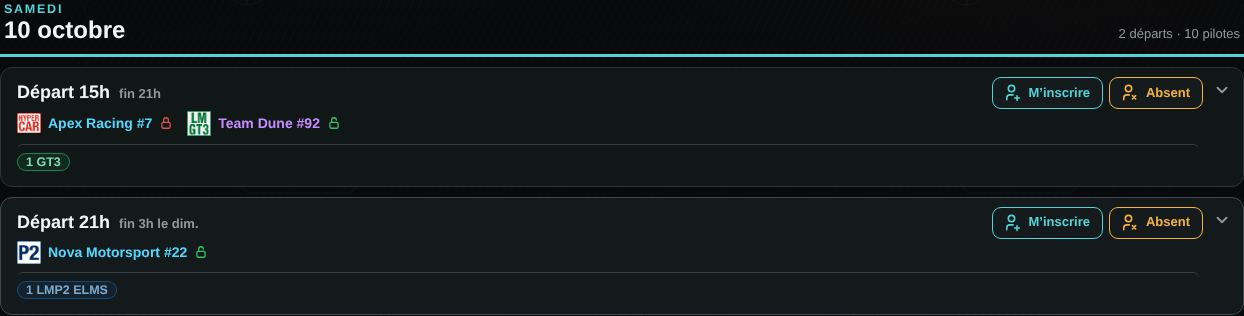
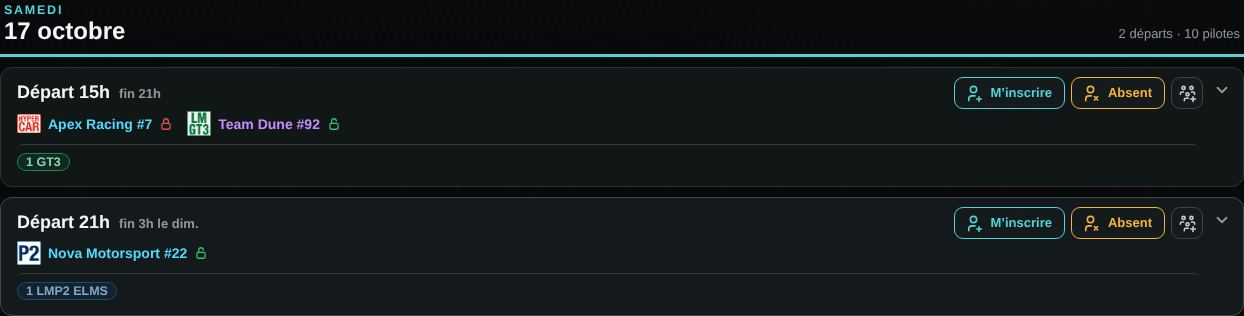
Aide à jour : accès, inscription, infos de course, récap par catégorie, modules
- Ce que tu peux faire : l'autorisation « Accès Endurance Manager » (sans elle, « Accès réservé »).
- Inscription : « Je la fais tout seul », coéquipiers souhaités et commentaire.
- Créer une endurance : infos facultatives (limites de piste, pneus, grille, partage du volant).
- Modules : récap par le bot (général ou une catégorie par course), vocal dès la création de l'équipage, EVENT TDZ, Mémo et Entraînement.
- Se repérer : onglets Mémo et Entraînement quand ils sont actifs.
- Rôles : texte d'explication raccourci.
- Captures de l'aide refaites ; données locales : @everyone reçoit l'accès.

Claude-Session: https://claude.ai/code/session_01NY3fv9bY7gYzXU8h8sdDb2

diff --git a/help.js b/help.js
@@ -23,7 +23,7 @@ function accountLabel() {
 
 function helpScreenshot(name, alt, caption = '') {
   return `<figure class="help-screenshot">
-    <img src="/images/help/${name}.jpg?v=3" alt="${alt}" loading="lazy" decoding="async">
+    <img src="/images/help/${name}.jpg?v=4" alt="${alt}" loading="lazy" decoding="async">
     ${caption ? `<figcaption>${caption}</figcaption>` : ''}
   </figure>`;
 }
@@ -37,6 +37,7 @@ function helpItem(index, title, body, open = false) {
 
 // The five permissions a Discord role can give (server/access.mjs), as set in Administration.
 const PERMISSIONS = () => [
+  ['access', L('Accès Endurance Manager', 'Endurance Manager access'), L('entrer sur le site de la communauté. Sans elle, tu vois « Accès réservé ».', 'enter the community’s site. Without it, you see “Restricted access”.')],
   ['endurance', L('Endurances', 'Endurance races'), L('s’inscrire aux endurances et rejoindre un équipage existant.', 'enter endurance races and join an existing crew.')],
   ['solo_open', L('Événements OPEN', 'OPEN events'), L('s’inscrire aux événements OPEN.', 'enter OPEN events.')],
   ['solo_safe', L('Événements SAFE', 'SAFE events'), L('s’inscrire aux événements SAFE (et OPEN).', 'enter SAFE (and OPEN) events.')],
@@ -51,6 +52,8 @@ const navigationSection = () => [L('Se repérer', 'Finding your way around'), `
     ${events() ? `<li>${L(`<strong>${eventsLabel()}</strong> : le calendrier des événements, toutes simus ;`, `<strong>${eventsLabel()}</strong>: the events calendar, every sim;`)}</li>` : ''}
     <li>${L('<strong>ENDURANCE</strong> : les endurances, avec le choix <strong>LMU</strong> / <strong>iRacing</strong> ;', '<strong>ENDURANCE</strong>: endurance races, with the <strong>LMU</strong> / <strong>iRacing</strong> switch;')}</li>
     <li>${L('<strong>Mes inscriptions</strong> : tout ce où tu es inscrit ;', '<strong>My entries</strong>: everything you entered;')}</li>
+    ${session?.memo ? `<li>${L('<strong>Mémo</strong> : la fiche de chaque circuit LMU (chronos par niveau, stands, BoP) ;', '<strong>Memo</strong>: each LMU circuit’s sheet (lap times by level, pit stops, BoP);')}</li>` : ''}
+    ${session?.training ? `<li>${L('<strong>Entraînement</strong> : la prépa de ta prochaine course LMU, avec ton équipage ;', '<strong>Training</strong>: the prep of your next LMU race, with your crew;')}</li>` : ''}
     <li>${L('la <strong>cloche</strong> : ce qui te concerne (inscriptions, équipage, rappels) ;', 'the <strong>bell</strong>: what concerns you (entries, crew, reminders);')}</li>
     <li>${L('ton <strong>compte</strong> : Aide, tes communautés et, pour les admins, Administration. Le drapeau change la langue.', 'your <strong>account</strong>: Help, your communities and, for admins, Administration. The flag switches the language.')}</li>
   </ul>
@@ -58,13 +61,13 @@ const navigationSection = () => [L('Se repérer', 'Finding your way around'), `
 
 const enduranceListSection = () => [L('Les endurances', 'Endurance races'), `
   <p>${L('Une carte par course, semaine par semaine : la date, les heures de départ, les catégories et leurs inscrits. Un badge montre ta situation. « Horaires à confirmer » : tu t’inscris sur un départ « à définir ».', 'One card per race, week by week: the date, start times, categories and how many entered. A badge shows where you stand. “Schedule to be confirmed”: you enter a start “to be set”.')}</p>
-  <p>${L('Au-dessus : <strong>À venir</strong>, <strong>Mes courses</strong>, <strong>Archivés</strong> et <strong>Filtres</strong>.', 'Above: <strong>Upcoming</strong>, <strong>My races</strong>, <strong>Archived</strong> and <strong>Filters</strong>.')}</p>
+  <p>${L('Au-dessus : <strong>À venir</strong>, <strong>Mes courses</strong> (dès que tu es inscrit), <strong>Archivés</strong> et <strong>Filtres</strong>.', 'Above: <strong>Upcoming</strong>, <strong>My races</strong> (once you have entered), <strong>Archived</strong> and <strong>Filters</strong>.')}</p>
   ${helpScreenshot('endurance-list', L('Liste des endurances', 'Endurance list'))}`];
 
 const enduranceEntrySection = () => [L('S’inscrire à une endurance', 'Entering an endurance race'), `
   <p>${L('Sur la page de la course, chaque départ a ses boutons :', 'On the race page, each start has its buttons:')}</p>
   <ul>
-    <li>${L('<strong>M’inscrire</strong> : une fenêtre en 4 étapes (catégorie, voitures, heures de présence, récapitulatif) ;', '<strong>Enter</strong>: a 4-step window (category, cars, hours present, summary);')}</li>
+    <li>${L('<strong>M’inscrire</strong> : une fenêtre en 4 étapes (catégorie, voitures, heures de présence ou <strong>Je la fais tout seul</strong>, récapitulatif). Au récapitulatif, tes coéquipiers souhaités et un commentaire, si tu veux ;', '<strong>Enter</strong>: a 4-step window (category, cars, hours present or <strong>I’ll do it alone</strong>, summary). In the summary, the teammates you wish for and a comment, if you like;')}</li>
     <li>${L('<strong>Absent</strong> : tu préviens que tu ne seras pas là. Ton nom va dans la liste <strong>Absents</strong>, en bas de la page ; un clic de plus l’enlève ;', '<strong>Absent</strong>: you say you won’t be there. Your name goes in the <strong>Absent</strong> list at the bottom of the page; one more click removes it;')}</li>
     <li>${L('une fois inscrit, <strong>Me désinscrire</strong> (en rouge) ; <strong>…</strong> pour modifier ton inscription ou t’inscrire dans une autre catégorie.', 'once entered, <strong>Withdraw</strong> (in red); <strong>…</strong> to edit your entry or enter another category.')}</li>
   </ul>
@@ -100,21 +103,21 @@ const bellSection = () => [L('La cloche', 'The bell'), `
   <p>${L('Elle prévient quand quelqu’un s’inscrit sur ton départ, rejoint ou quitte ton équipage, change sa voiture, ou quand la course change. Si ta communauté a activé les rappels, elle te rappelle ta course 24 h avant.', 'It tells you when someone enters your start, joins or leaves your crew, changes its car, or when the race changes. If your community turned reminders on, it reminds you of your race 24 h before.')}</p>`];
 
 function rightsSection() {
-  const mine = PERMISSIONS().filter(([key]) => can(key) && (events() || !key.startsWith('solo_')));
+  const mine = PERMISSIONS().filter(([key]) => key !== 'access' && can(key) && (events() || !key.startsWith('solo_')));
   const list = PERMISSIONS().filter(([key]) => events() || !key.startsWith('solo_'));
   const yours = !session?.user ? ''
-    : `<p>${mine.length ? `${L('Tes autorisations ici :', 'Your permissions here:')} ${mine.map(([, name]) => `<strong>${name}</strong>`).join(', ')}.` : L('Tu n’as aucune autorisation ici : tu vois les courses sans pouvoir t’inscrire.', 'You have no permission here: you can see the races but not enter them.')}</p>`;
+    : `<p>${mine.length ? `${L('Tes autorisations ici :', 'Your permissions here:')} ${mine.map(([, name]) => `<strong>${name}</strong>`).join(', ')}.` : L('Tu n’as aucune autorisation ici.', 'You have no permission here.')}</p>`;
   return [L('Ce que tu peux faire', 'What you can do'), `
     <p>${L('Tes droits viennent de tes <strong>rôles sur le Discord</strong> de la communauté. Ses admins choisissent ce que chaque rôle permet :', 'Your rights come from your <strong>roles on the community’s Discord</strong>. Its admins choose what each role allows:')}</p>
     <ul>${list.map(([, name, text]) => `<li><strong>${name}</strong> : ${text}</li>`).join('')}</ul>
-    <p>${L('Sans autorisation, tu vois les courses seulement. Un rôle donné sur Discord compte ici en quelques minutes.', 'With no permission, you only see the races. A role given on Discord counts here within minutes.')}</p>
+    <p>${L('Avec l’accès seul, tu vois les courses sans pouvoir t’inscrire. Un rôle donné sur Discord compte ici en quelques minutes.', 'With access only, you see the races but cannot enter them. A role given on Discord counts here within minutes.')}</p>
     ${yours}`];
 }
 
 // ---------- Admins ----------
 
 const createEnduranceSection = () => [L('Créer une endurance', 'Creating an endurance race'), `
-  <p>${L('<strong>Ajouter une endurance</strong> ouvre une fenêtre en 4 étapes : informations (nom, durée, type, circuit), catégories, départs, récapitulatif. Les heures sont celles de Paris. Coche <strong>Horaires à confirmer</strong> si tu ne connais que le jour.', '<strong>Add an endurance race</strong> opens a 4-step window: information (name, length, type, circuit), categories, starts, summary. Times are Paris time. Tick <strong>Schedule to be confirmed</strong> if you only know the day.')}</p>
+  <p>${L('<strong>Ajouter une endurance</strong> ouvre une fenêtre en 4 étapes : informations (nom, durée, type, circuit), catégories, départs, récapitulatif. Les heures sont celles de Paris. Coche <strong>Horaires à confirmer</strong> si tu ne connais que le jour. Facultatif : limites de piste, pneus, grille et partage du volant, affichés en icônes sur la page de la course.', '<strong>Add an endurance race</strong> opens a 4-step window: information (name, length, type, circuit), categories, starts, summary. Times are Paris time. Tick <strong>Schedule to be confirmed</strong> if you only know the day. Optional: track limits, tyres, grid and fair share, shown as icons on the race page.')}</p>
   <p>${L('Sur la page de la course : <strong>Copier le lien</strong>, <strong>Modifier l’événement</strong> et <strong>Supprimer l’événement</strong>. Si tu changes un horaire, préviens les pilotes.', 'On the race page: <strong>Copy link</strong>, <strong>Edit event</strong> and <strong>Delete event</strong>. If you change a start time, tell the drivers.')}</p>
   ${helpScreenshot('admin-create-endurance', L('Créer une endurance', 'Creating an endurance race'))}`];
 
@@ -131,8 +134,8 @@ const administrationSection = () => [L('Administration', 'Administration'), `
   <p>${L('Menu du compte → <strong>Administration</strong>, en 4 parties :', 'Account menu → <strong>Administration</strong>, in 4 parts:')}</p>
   <ul>
     <li>${L('<strong>Vue d’ensemble</strong> : l’état du serveur Discord, les étapes de démarrage et ce qui demande ton attention ;', '<strong>Overview</strong>: the Discord server’s state, the getting-started steps and what needs your attention;')}</li>
-    <li>${L('<strong>Membres et rôles</strong> : les membres venus sur le site et, dans <strong>Rôles</strong>, les 5 autorisations à cocher pour chaque rôle Discord ;', '<strong>Members and roles</strong>: the members who came to the site and, under <strong>Roles</strong>, the 5 permissions to tick for each Discord role;')}</li>
-    <li>${L('<strong>Modules</strong> : récap de la semaine sur Discord, salons d’équipage, rappels de course, endurances iRacing officielles, EVENT TDZ ;', '<strong>Modules</strong>: weekly recap on Discord, crew channels, race reminders, official iRacing endurance races, EVENT TDZ;')}</li>
+    <li>${L('<strong>Membres et rôles</strong> : les membres venus sur le site et, dans <strong>Rôles</strong>, ce que chaque rôle Discord permet. Coche <strong>Accès Endurance Manager</strong> sur les rôles qui peuvent entrer ;', '<strong>Members and roles</strong>: the members who came to the site and, under <strong>Roles</strong>, what each Discord role allows. Tick <strong>Endurance Manager access</strong> on the roles that may enter;')}</li>
+    <li>${L('<strong>Modules</strong> : ce qui s’allume ou s’éteint (voir ci-dessous) ;', '<strong>Modules</strong>: what can be switched on or off (see below);')}</li>
     <li>${L('<strong>Apparence</strong> : nom, couleur et bannière, avec un aperçu.', '<strong>Appearance</strong>: name, colour and banner, with a preview.')}</li>
   </ul>
   <p>${L('Les rôles se donnent sur Discord, jamais ici.', 'Roles are given on Discord, never here.')}</p>
@@ -140,10 +143,12 @@ const administrationSection = () => [L('Administration', 'Administration'), `
 
 const modulesSection = () => [L('Les modules en bref', 'Modules in short'), `
   <ul>
-    <li>${L('<strong>Salons d’équipage</strong> : un salon vocal par équipage, nommé simu + nom de l’équipage, ouvert quelques jours avant la course et supprimé 2 h après la fin ;', '<strong>Crew channels</strong>: a voice channel per crew, named sim + crew name, opened a few days before the race and deleted 2 h after it ends;')}</li>
+    <li>${L('<strong>Récap de la semaine sur Discord</strong> : le bot publie un récap général, ou <strong>une catégorie par course</strong> dès sa publication (salon « infos-de-la-course » et vocaux des équipages), supprimée 24 h après le dernier départ ;', '<strong>Weekly recap on Discord</strong>: the bot posts a general recap, or <strong>one category per race</strong> as soon as it is published (“infos-de-la-course” channel and crew voice channels), deleted 24 h after the last start;')}</li>
+    <li>${L('<strong>Salons d’équipage</strong> : un salon vocal par équipage, à son nom, ouvert dès sa création et supprimé 2 h après la course ;', '<strong>Crew channels</strong>: a voice channel per crew, named after it, opened as soon as it is created and deleted 2 h after the race;')}</li>
     <li>${L('<strong>Rappels de course</strong> : 24 h avant dans la cloche, 24 h et 1 h avant dans le salon de l’équipage ;', '<strong>Race reminders</strong>: 24 h before in the bell, 24 h and 1 h before in the crew channel;')}</li>
     <li>${L('<strong>Endurances iRacing officielles</strong> : les séries en équipe et les événements spéciaux ajoutés tout seuls, horaires compris ;', '<strong>Official iRacing endurance races</strong>: team series and special events added by themselves, times included;')}</li>
-    <li>${L('<strong>Récap de la semaine</strong> : les courses de la semaine dans un salon Discord, mis à jour à chaque inscription.', '<strong>Weekly recap</strong>: the week’s races in a Discord channel, updated on every entry.')}</li>
+    <li>${L(`<strong>${eventsLabel()}</strong> : le calendrier des événements, toutes simus ;`, `<strong>${eventsLabel()}</strong>: the events calendar, every sim;`)}</li>
+    <li>${L('<strong>Mémo des circuits</strong> et <strong>Entraînement</strong> (LMU) : la fiche de chaque circuit pour tous, et la prépa de chaque course avec ton équipage.', '<strong>Circuit memo</strong> and <strong>Training</strong> (LMU): each circuit’s sheet for everyone, and each race’s prep with your crew.')}</li>
   </ul>`];
 
 const diagnosticsSection = () => [L('Diagnostics', 'Diagnostics'), `

diff --git a/help.html b/help.html
@@ -20,7 +20,7 @@
 <link rel="stylesheet" href="/styles/legal.css?v=2">
 <link rel="stylesheet" href="/styles/ux-refresh.css?v=27-same-nav">
 <script type="module" src="/front/account-menu.mjs?v=18-same-nav"></script>
-<script type="module" src="/front/help-page.mjs?v=4-site-tour"></script>
+<script type="module" src="/front/help-page.mjs?v=5-aide-a-jour"></script>
 </head>
 <body>
 <div class="top-stripes" aria-hidden="true"><div></div><div></div><div></div><div></div></div>
